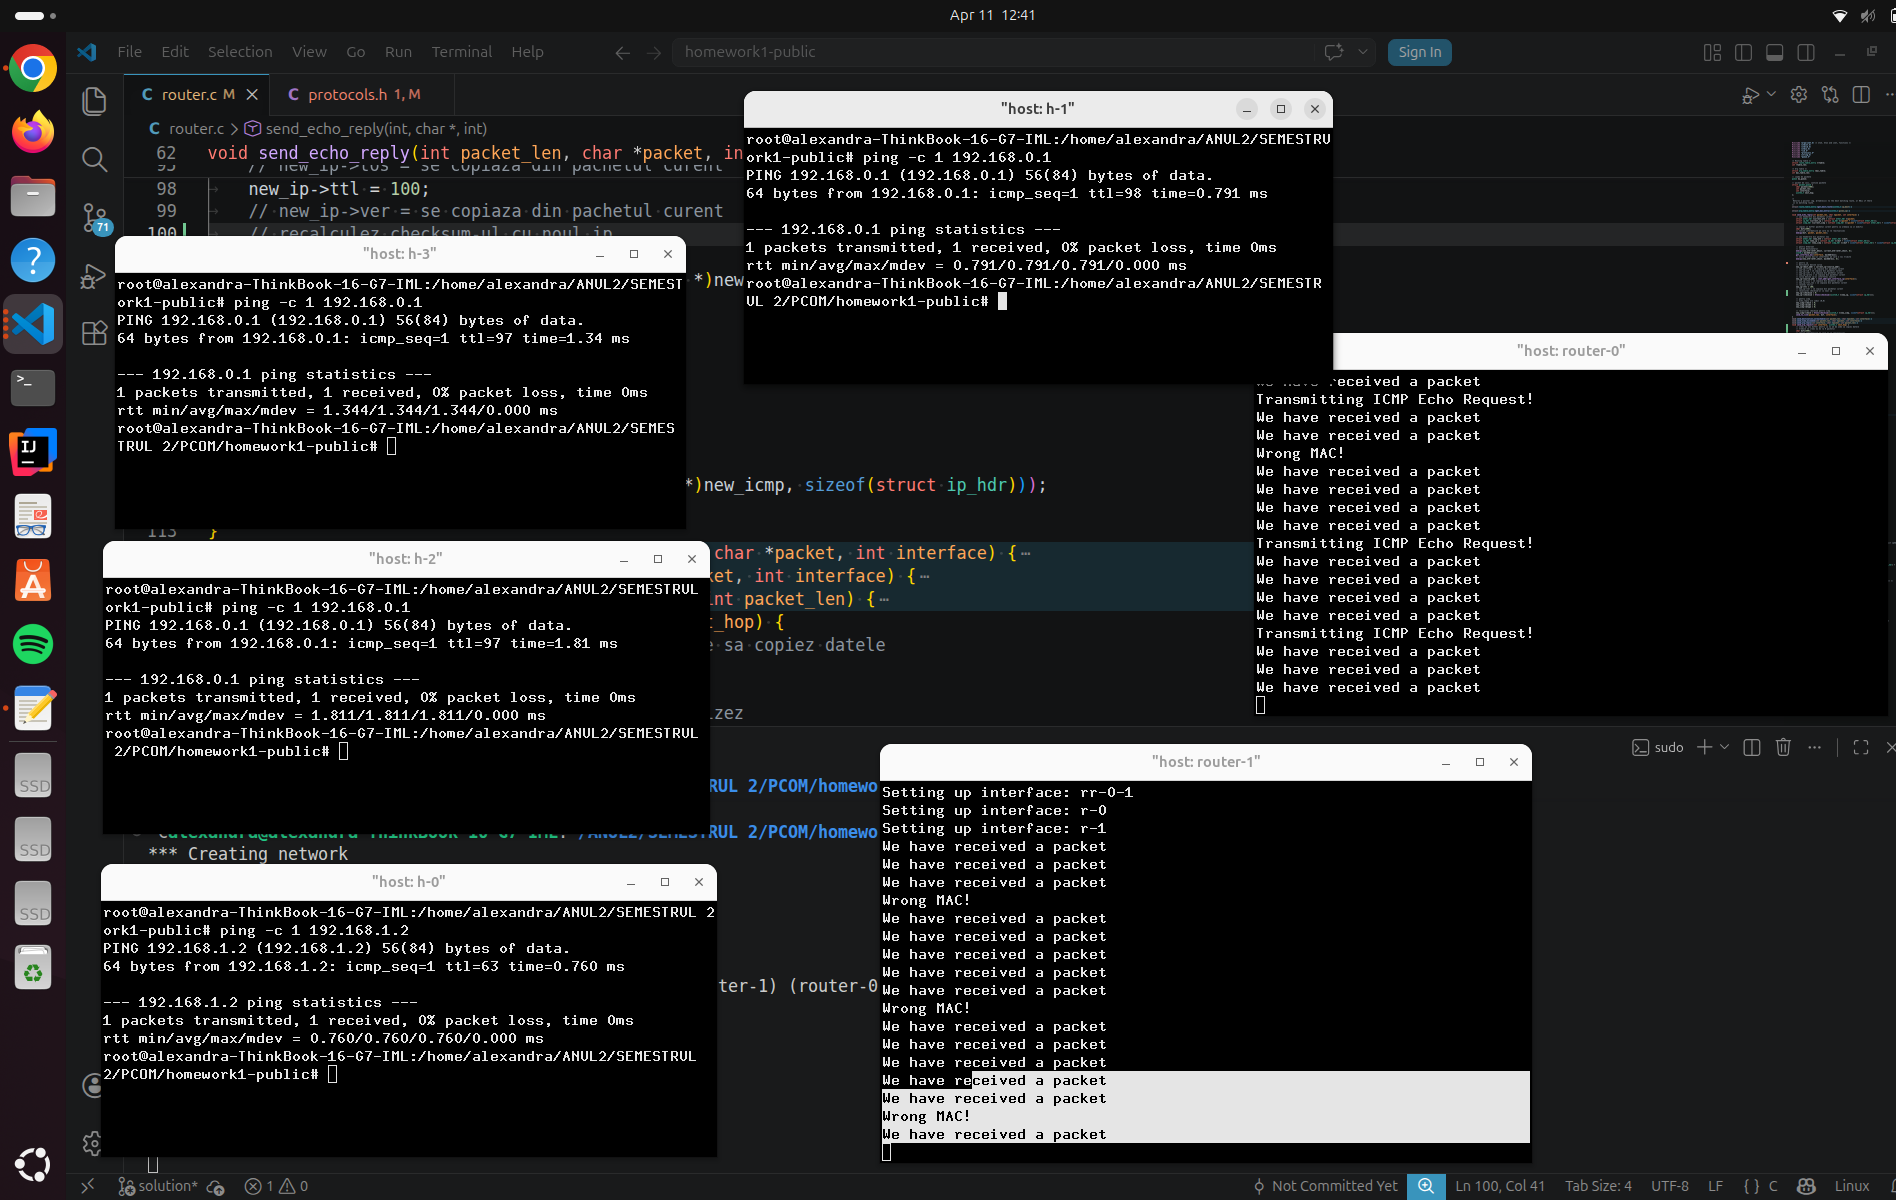
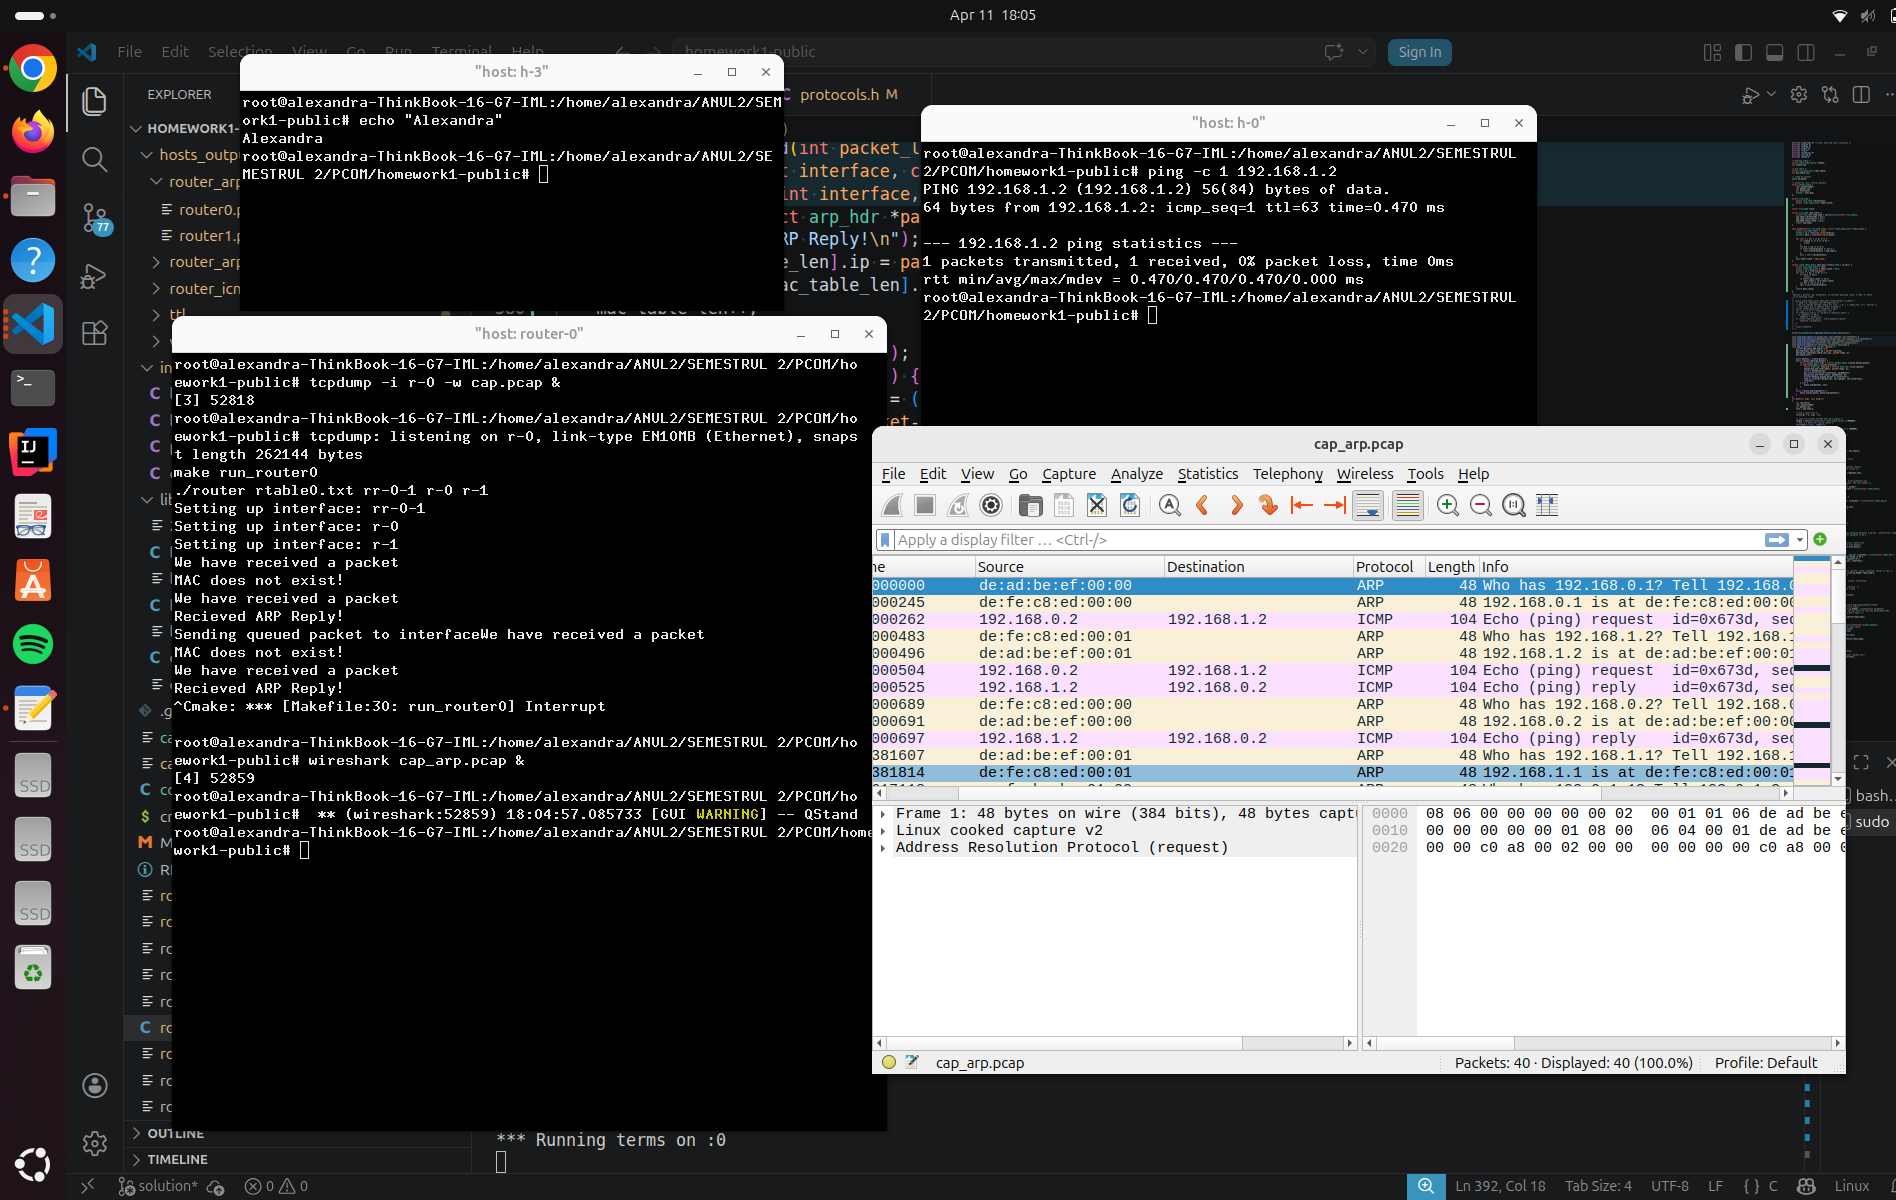
README facut!

diff --git a/README.md b/README.md
@@ -1,1 +1,67 @@
-Repository for the first homework of the Communication Networks class. In this homework the students will implement the dataplane of a router.
+Repository for the first homework of the Communication Networks class. In this homework
+the students will implement the dataplane of a router.
+
+Mai intai aloc tabelele ARP si MAC. Initializez lungimea tabelelor si adaug in arbore fiecare intrare din tabel.
+Initializez coada de pachete si lungimea tabelei MAC cu 0. (Pentru ARP dinamic) 
+
+Procesul de dirijare - Forwarding
+
+Extrag header-ele Ethernet si IP.
+Prima data verific daca checksum-ul header-ului IP este valid. Daca nu este valid, trebuie sa dau drop pachetului.
+Apoi, verific daca pachetul este destinat router-ului(il tratez mai apoi ca echo_reply- pentru Protocolul ICMP).
+Caut cea mai buna ruta folosind Longest Prefix Match(explicat mai jos). Verific daca TTL-ul pachetului a expirat.
+In caz afirmativ, il tratez cu time_exceeded- pentru protoclul. Altfel, scad ttl-ul si reactualizez checksum-ul.
+Caut MAC-ul urmatorului hop in tabela ARP. Daca nu il gasesc, adaug pachetul in coada de pachete si trimit arp_request.
+Reactualizez destinatia si sursa MAC-ului si trimit pachetul pe interfata rutei gasite.
+
+Longest Prefix Match - Eficient
+
+Pentru a gasi cea mai buna ruta, am implementat LPM cu Trie, cum e sugerat in enuntul temei. Fiecare nod este cate un bit
+din adresa IP, iar inserarea oricarei rute se face bit cu bit, in adancime. Mai intai, am initializat radacina cu ajutorul
+functiei add_node, ce creaza un nod nou. Pentru functia de insert, parcurg bitii invers, de la MSB la LSB. Daca gasesc un
+bit de 0 in masca, atunci ma opresc. Parcurg in continuare bitii din adresa IP. Daca nu exista nod la bitul curent, atunci
+inseamna ca nu exista nodul si il vom crea cu ajutorul functiei add_node(). Daca exista nod la bitul curent, atunci coboram
+in adancime. Functia de search cauta cea mai buna ruta. Daca gasesc un nod NULL sau am parcurs toti bitii, atunci returnez
+cea mai buna ruta curenta. Altfel, atribui celei mai bune, cea mai buna ruta a nodului curent. Apelez recursiv functia,
+parcurgand invers bitii. Functia get_best_route returneaza cea mai buna ruta.In main, initializez arborele parcurgand
+intrarile din tabela de intrare ARP.
+
+Protoclul ARP
+Am implementat protocolul ARP dinamic eliminand fisierul arp_table.txt si folosindu-ma de cele trei functii create:
+send_arp_reply, send_arp_request, add_in_queue.
+
+Functia send_arp_reply raspunde cu adresa MAC a interfetei curente atunci cand router-ul primeste un ARP Request. Functia
+extrage header-ele din pachetul curent si copiaza intr-un buffer toate datele pachetului aferent. Sunt extrase din nou
+header-ele Ethernet si ARP din buffer-ul nou, pentru ca urmeaza ca o parte din informatii sa fie modificate. Sunt modificate
+sursa si destinatia pentru Ethernet. In protocolul ARP, setez opcode la 2(corespunzator reply-ului), sender-ul hardware devine
+MAC-ul, sender protocol address devine IP-ul, iar target hardware devine adresa sender-ului din ce primim. Apelez aceasta
+functie cand primesc un pachet cu Opcode 1.
+
+Functia send_arp_request trimite un ARP request atunci cand router-ul trebuie sa dirijeze un pachet in care nu e cunoscut
+MAC-ul urmatorului hop. Pachetul trebuie creat de la 0, astfel ca nu mai copiez nimic, ci setez buffer-ul initial la 0.
+Extrag header-ele Ethernet si ARP, in care face aproximativ acelasi lucru ca la arp_reply. Pentru ARP, setez si restul
+campurilor conform RFC 5342(mentionat in enunt). Apelez aceasta cand nu gasesc MAC-ul urmatorului hop.
+
+Functia add_in_queue creeaza coada de asteptare a pachetelor. Acest lucru este important pentru ca nu vreau ca router-ul sa
+se blocheze. Functia adauga o noua intrare in tabela ARP, apoi initializeaza o noua coada de pachete. Parcurg coada initiala
+si pentru fiecare pachet verific daca next hop este acelasi cu ip-ul primit. Daca este, atunci actualizez campul Ethernet si
+trimit pachetul pe interfata corespunzatoare. Daca nu este, atunci il adaug in coada de asteptare. La sfarsit, mut toate
+elementele din coada creata mai devreme in coada principala. Apelez aceasta functie cand primesc un pachet cu opcode 2.
+Astfel, trimit pachetele care asteptau in coada, pentru ca am primit un raspuns la request.
+
+Protocolul ICMP
+Am implementat cele trei tipuri de mesaje mentionate in enunt: Echo Reply, Destination Unreachable, Time Exceeded.
+
+Functia send_echo_reply retine header-ele Ethernet, IP, ICMP din pachetul curent, copiaza datele din pachetul curent intr-un
+buffer si apoi modifica cele trei headere. Pentru Ethernet, este nevoie sa modificam destinatarul si sursa. Pentru IP, se schimba
+sursa cu destinatia, TTL-ul este resetat(l-am resetat la 100) si checksum-ul este reactualizat abia la final, dupa ce fac
+modificarile aferente. Pentru ICMP, type-ul si codul devin 0(mentionat in enunt). Apelez functia atunci cand roueter-ul primeste
+un ICMP destinat lui. Este comparat IP-ul interfetei cu IP-ul destinatie.
+
+Functia send_destination_unreachable extrage aceleasi 3 headere ca la send_echo_reply. Facem aproximativ aceleasi modificari,
+dar la nivelul ICMP extragem si payload-ul(8 bytes -> 64 biti), iar la nivelul IP modificam type si code. Recalculam checksum-ul
+dar si lungimea totala a pachetului (adaugam payload-ul). Apelez functia atunci cand nu exista nicio ruta in tabela de rutare catre destinatie.
+
+Functia send_time_exceeded extrage aceleasi 3 headere ca la send_echo_reply. Facem aceleasi modificari ca la
+send_destination_unreachable, doar ca modificam type si code-ul. Apelez functia atunci cand TTL a expirat
+(in verificarea daca TTL < 1), adica pachetul a expirat si nu mai poate fi dirijat.
